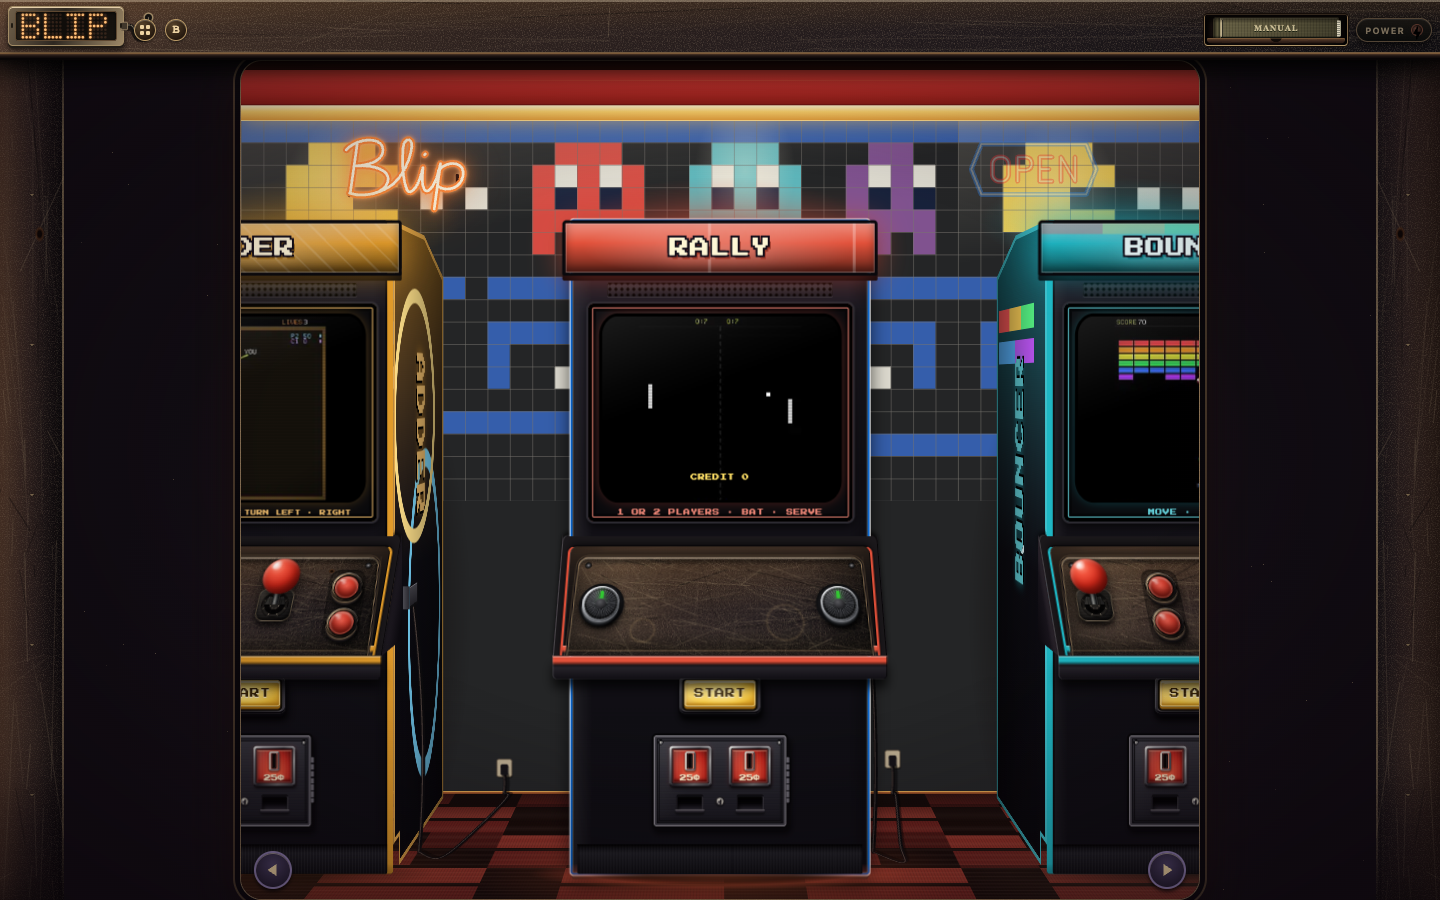
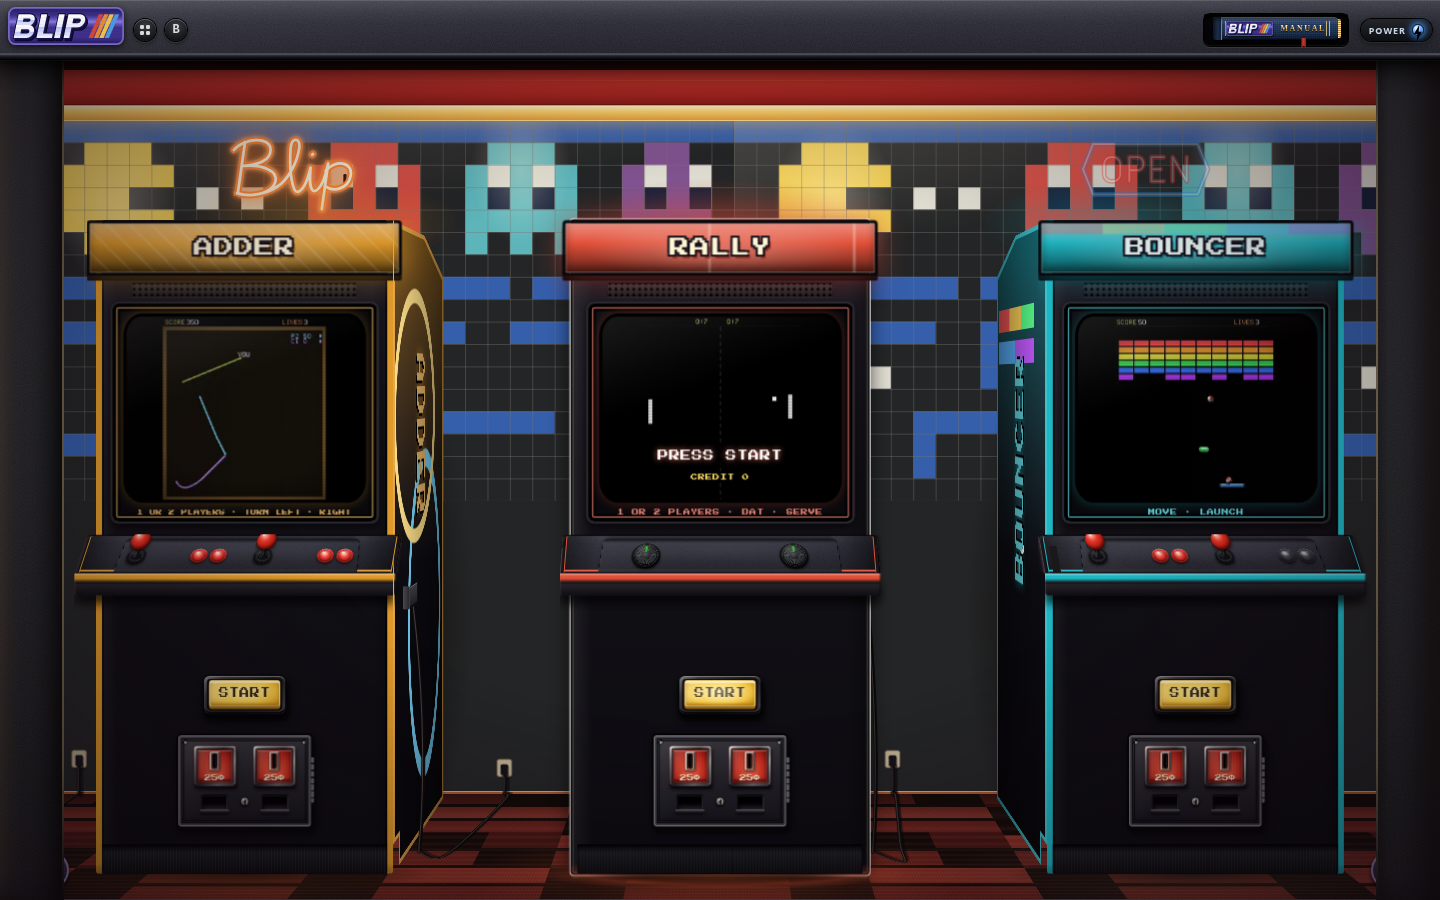
Refresh README and screenshots, remove unused images (#81)

diff --git a/README.md b/README.md
@@ -1,12 +1,10 @@
 # Blip Engine Arcade
 
-Step inside, pick a machine, and chase that next high score! Blip packs nine arcade games, a fresh iOS-style Home Screen, and a programmable retro computer into your browser. The games run on the Rust `blip` engine, compiled to WebAssembly.
+Step inside, pick a machine, and chase that next high score! Blip packs nine arcade games, an iOS-style Home Screen, and a programmable retro computer into your browser. The games run on the Rust `blip` engine, compiled to WebAssembly.
 
 **[Play in the browser →](https://jacobandresen.github.io/blip/)**
 
-[![The Blip arcade front, with glowing marquees, playable cabinets, and a tiled arcade backdrop](docs/screenshots/arcade-front.png)](https://jacobandresen.github.io/blip/)
-
-*The current arcade front, captured from the local build on 26 October 2026. Pick a cabinet and let the buttons do the talking.*
+[![The Blip arcade front: Rally between Adder and Bouncer, in front of a tiled maze wall with neon signs](docs/screenshots/arcade-front.png)](https://jacobandresen.github.io/blip/)
 
 **[Explore the Blip API →](https://jacobandresen.github.io/blip/api.html)** — see how the games use the engine, then try making one with Rust or an AI coding agent such as Claude Code or Codex.
 
@@ -19,18 +17,18 @@ Step inside, pick a machine, and chase that next high score! Blip packs nine arc
 - **[Defender](https://jacobandresen.github.io/blip/defender/)** — take on alien formations and their motherships. They brought friends.
 - **[Meteors](https://jacobandresen.github.io/blip/meteors/)** — thrust, turn, and blast through drifting asteroids.
 - **[Raider](https://jacobandresen.github.io/blip/raider/)** — fly into formations, flak, and bosses in a vertical shooter.
-- **[Brawler](https://jacobandresen.github.io/blip/brawler/)** — choose from 15 fighters and climb a 14-match ladder, in Rust or BLIP BASIC.
+- **[Brawler](https://jacobandresen.github.io/blip/brawler/)** — choose from 15 fighters and climb a 14-match ladder, alone or against a friend.
 - **[Bubbler](https://jacobandresen.github.io/blip/bubbler/)** — bubble-blowing platform action for one or two players. Trap trouble, then pop it!
 
 ## A little arcade in your pocket
 
-The new **[iOS-style Home Screen](https://jacobandresen.github.io/blip/home.html)** puts every game behind a colorful app icon, with a dock, search, and long-press menus. Rearrange your favorites, tap straight into free play, or add a game to your device's Home Screen for a quick rematch. The dock takes you back to the cabinet aisle whenever the neon calls.
+The **[iOS-style Home Screen](https://jacobandresen.github.io/blip/home.html)** puts every game behind a colorful app icon, with a dock, search, and long-press menus. Rearrange your favorites, tap straight into free play, or add a game to your device's Home Screen for a quick rematch. The dock takes you back to the cabinet aisle whenever the neon calls.
 
 <a href="https://jacobandresen.github.io/blip/home.html"><img src="docs/screenshots/ios-home.png" width="320" alt="Blip's iOS-style Home Screen with all nine game icons, two-player badges, search, and a dock"></a>
 
 ## Meet BLIP BASIC
 
-Fancy making the machine do your bidding? **[BLIP BASIC](https://jacobandresen.github.io/blip/basic.html)** is an Amiga-inspired BASIC playground inside a retro computer, complete with game cassettes, a console, and an editor. Load a numbered game tape, peek at its code, change the rules, and run it again. Brawler even brings its full 15-fighter ladder to BASIC.
+Fancy making the machine do your bidding? **[BLIP BASIC](https://jacobandresen.github.io/blip/basic.html)** is an Amiga-inspired BASIC playground inside a retro computer, complete with game cassettes, a console, and an editor. All nine games come as numbered tapes: load one, peek at its code, change the rules, and run it again.
 
 The interpreter runs in Rust and shares drawing, math, and effects with the Blip engine. Start with the **[BLIP BASIC programming book](https://jacobandresen.github.io/blip/basic-book.html)**, then dig into the [language and engine guide](crates/blip_basic/README.md). Your next arcade obsession could be one you write yourself.
 
